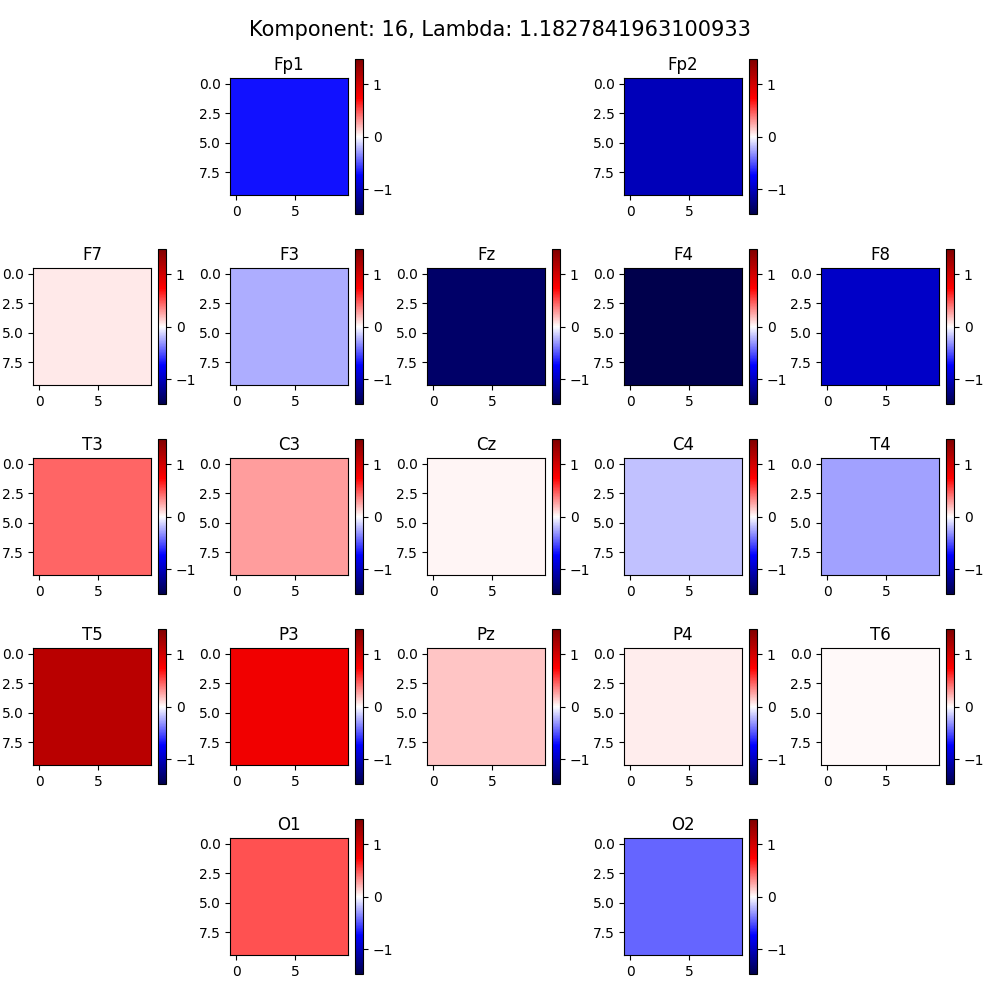
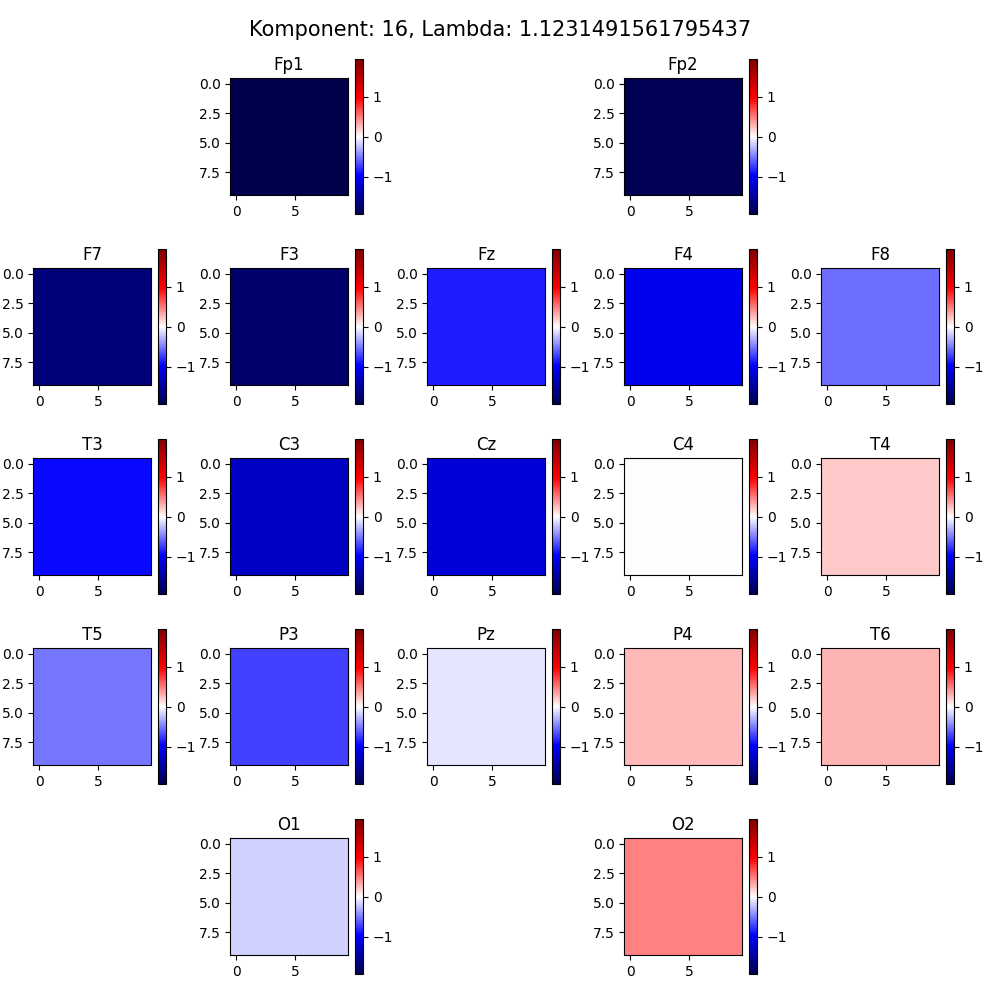
Zmiana danych na których był trenowany model z surowych do danych S po przetworzeniu macierzą W

diff --git a/ERDS_main.py b/ERDS_main.py
@@ -75,15 +75,16 @@ X_train_prawa = X_train[y_train == 1]
 C = ERDS_CSP.CSP(256, 19)
 C.fit(X_train_lewa, X_train_prawa)
 C.componentsHeadImg()
-S = C.transform(X_test)
+S_train = C.transform(X_train)
+S_test = C.transform(X_test)
 
 print("Wybierz właściwy komponent na podstawie rysunków (powinien zawierać aktywność na P3-P4): ", end="")
 numKomponent = int(input())
 
-SpektogramyRuchTrain, f_tab, t_tab = ERDS_utils.przygotuj_spektrogramy_do_testu(X_train, numKomponent, fs=256, nperseg=128, noverlap=64)
+SpektogramyRuchTrain, f_tab, t_tab = ERDS_utils.przygotuj_spektrogramy(S_train, numKomponent, fs=256, nperseg=128, noverlap=64)
 print(SpektogramyRuchTrain.shape)
 
-SpektogramyRuchTest, f_tab, t_tab = ERDS_utils.przygotuj_spektrogramy_do_testu(X_test, numKomponent, fs=256, nperseg=128, noverlap=64)
+SpektogramyRuchTest, f_tab, t_tab = ERDS_utils.przygotuj_spektrogramy(S_test, numKomponent, fs=256, nperseg=128, noverlap=64)
 print(SpektogramyRuchTest.shape)
 
 # SpłaszczoneSpektogramy

diff --git a/ERDS_utils.py b/ERDS_utils.py
@@ -138,7 +138,7 @@ def normowane_sigm_baseline(Spektogram):
     return tab
 
 
-def przygotuj_spektrogramy_do_testu(daneTestowe, numKomponent, fs=256, nperseg=128, noverlap=64):
+def przygotuj_spektrogramy(daneTestowe, numKomponent, fs=256, nperseg=128, noverlap=64):
     """
     zwraca zestaw spektogramów
 
